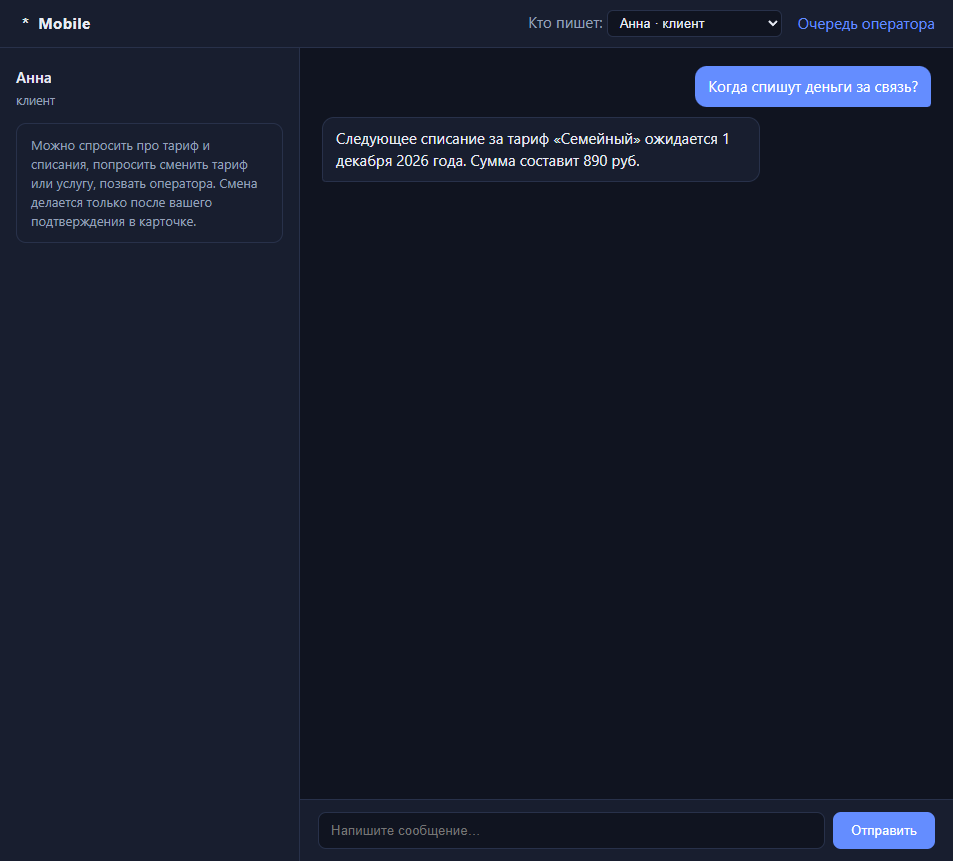
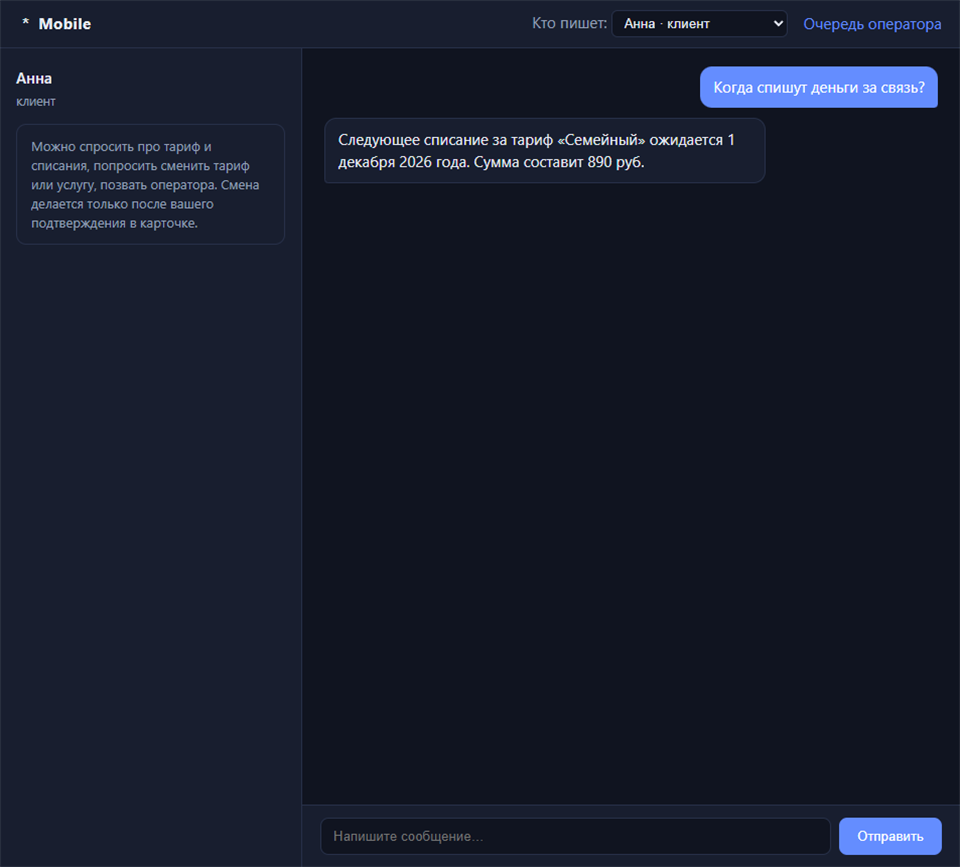
Normalize README chat screens to the same width.

diff --git a/README.md b/README.md
@@ -11,9 +11,9 @@
 
 Как выглядит чат:
 
-![Вопрос про списание](docs/screens/chat-billing.png)
+<img src="docs/screens/chat-billing.png" alt="Вопрос про списание" width="960">
 
-![Карточка смены тарифа](docs/screens/chat-card.png)
+<img src="docs/screens/chat-card.png" alt="Карточка смены тарифа" width="960">
 
 Архитектурные решения: [docs/decisions.md](docs/decisions.md), записи в [docs/adr/](docs/adr/).  
 Отчёт приёмки (снимок шага 9: числа и `trace_id`): [docs/acceptance-report.md](docs/acceptance-report.md).  
